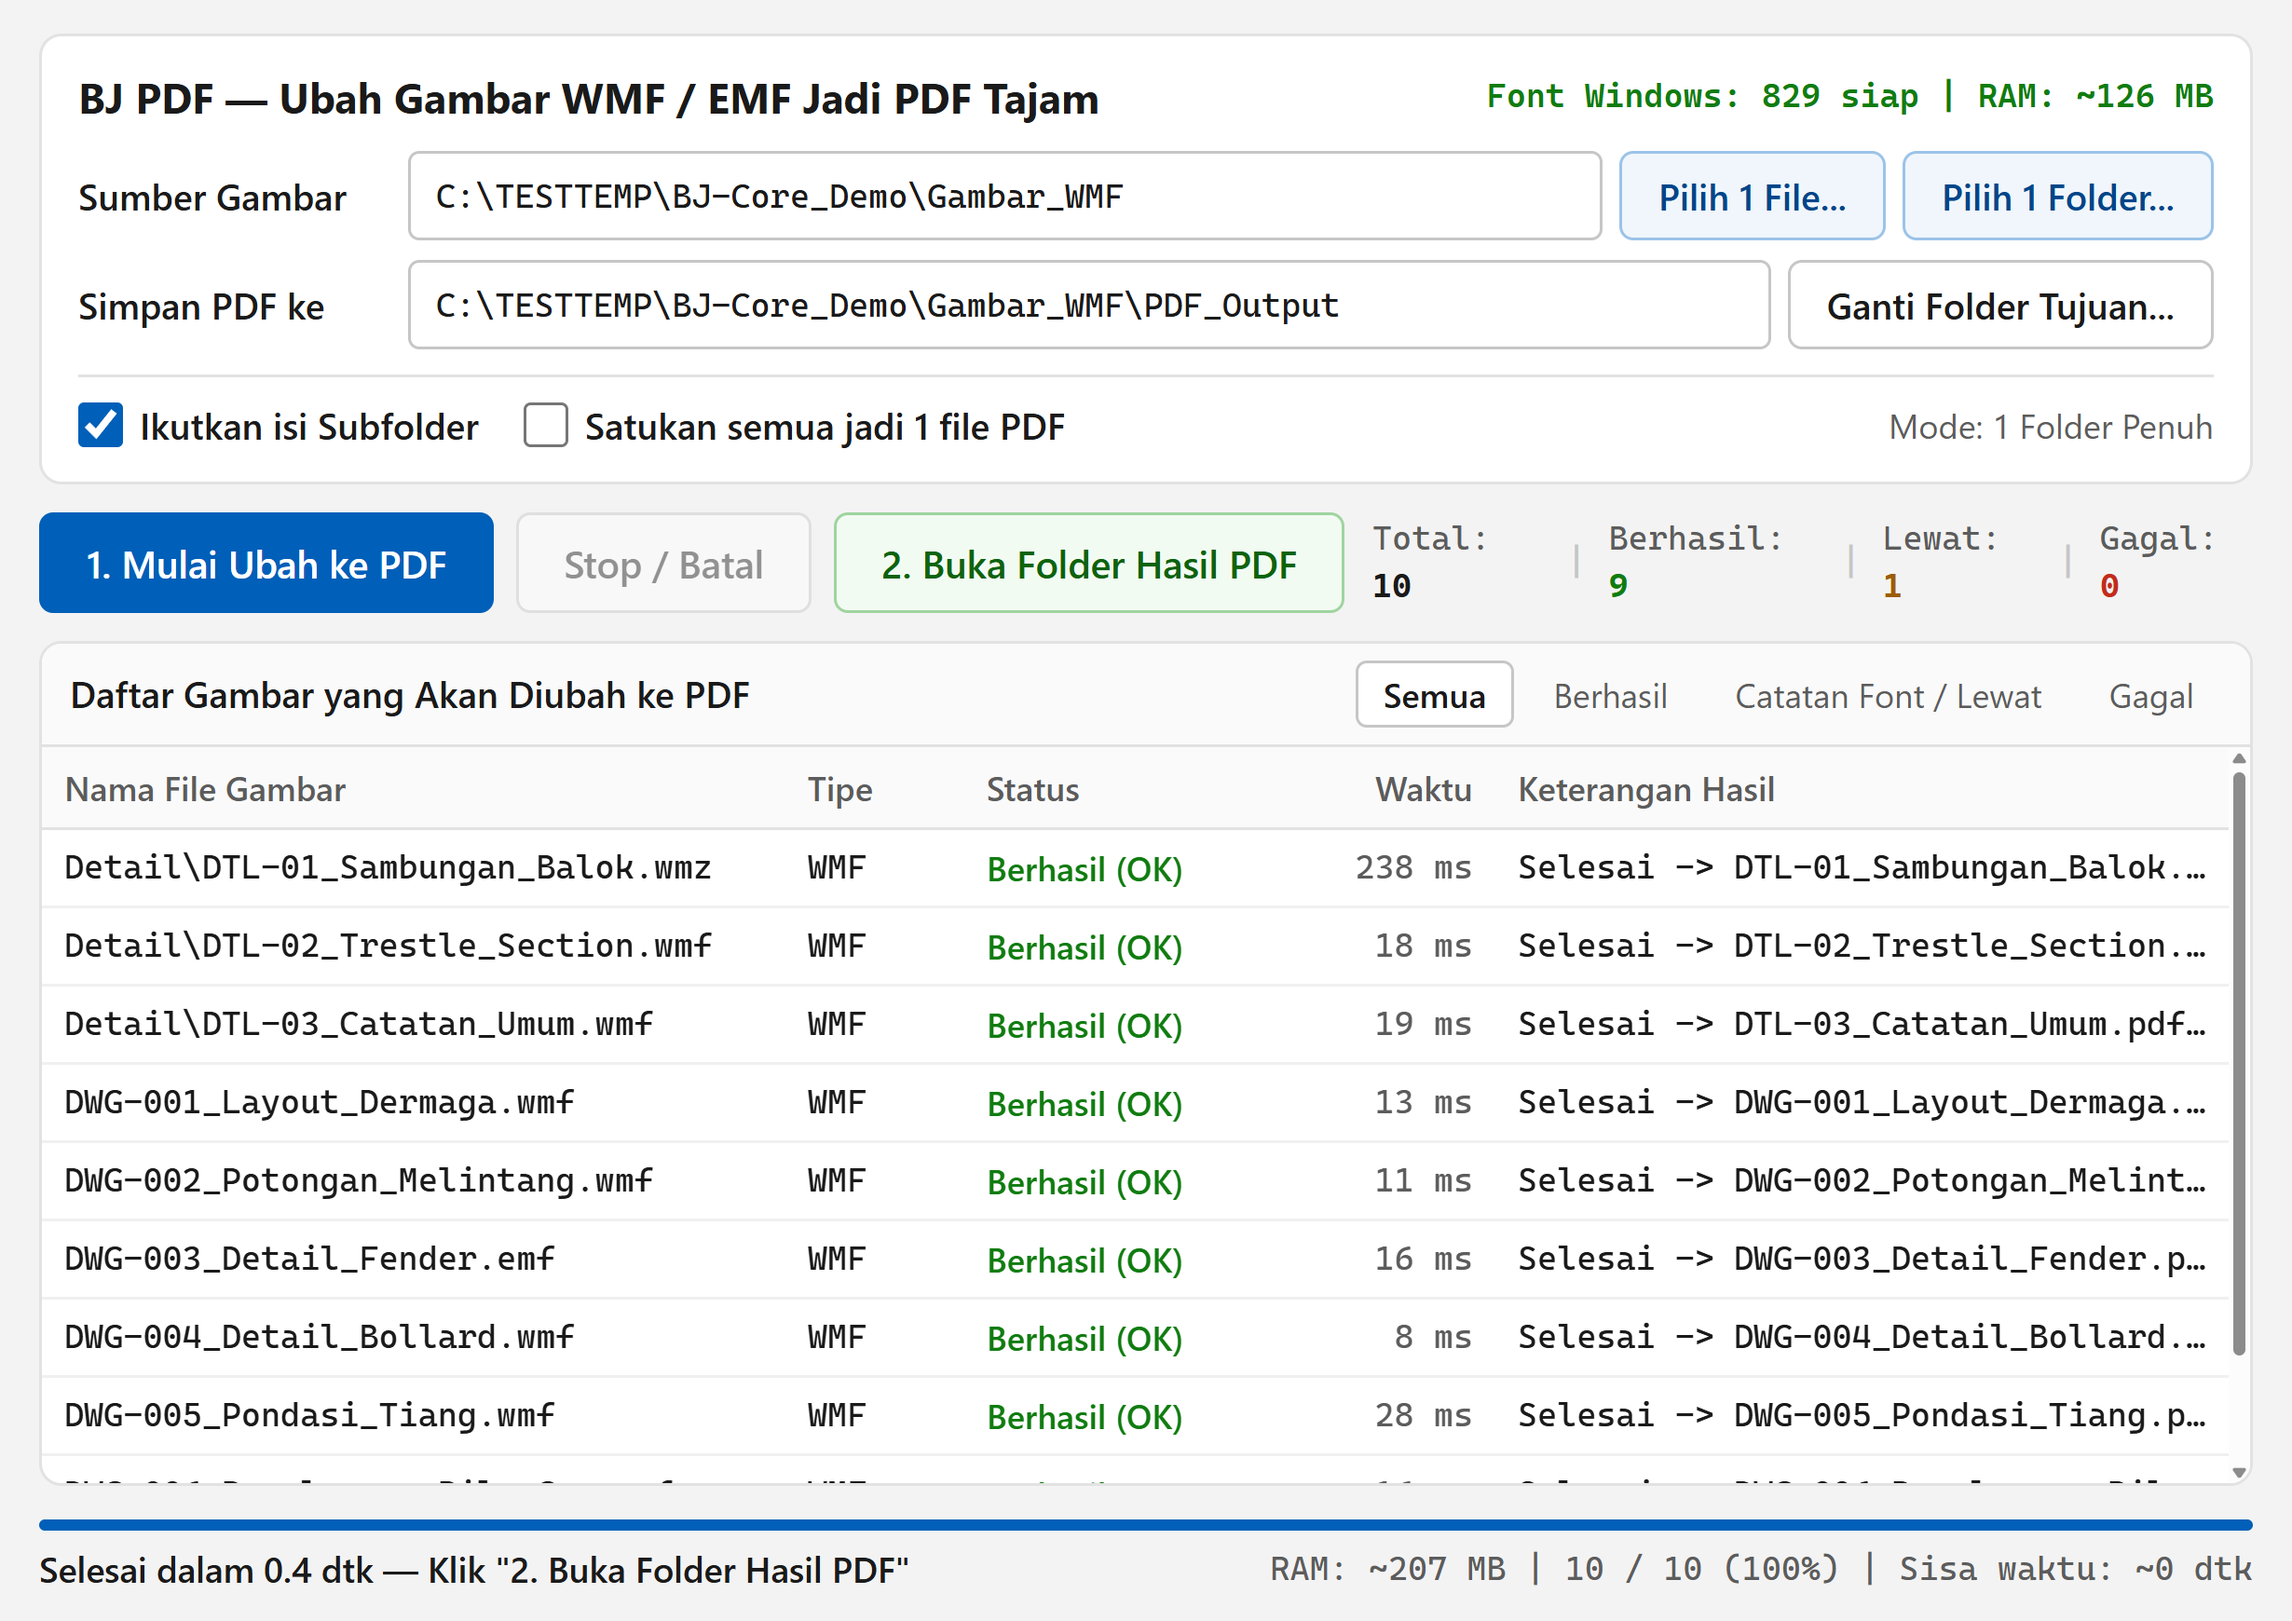
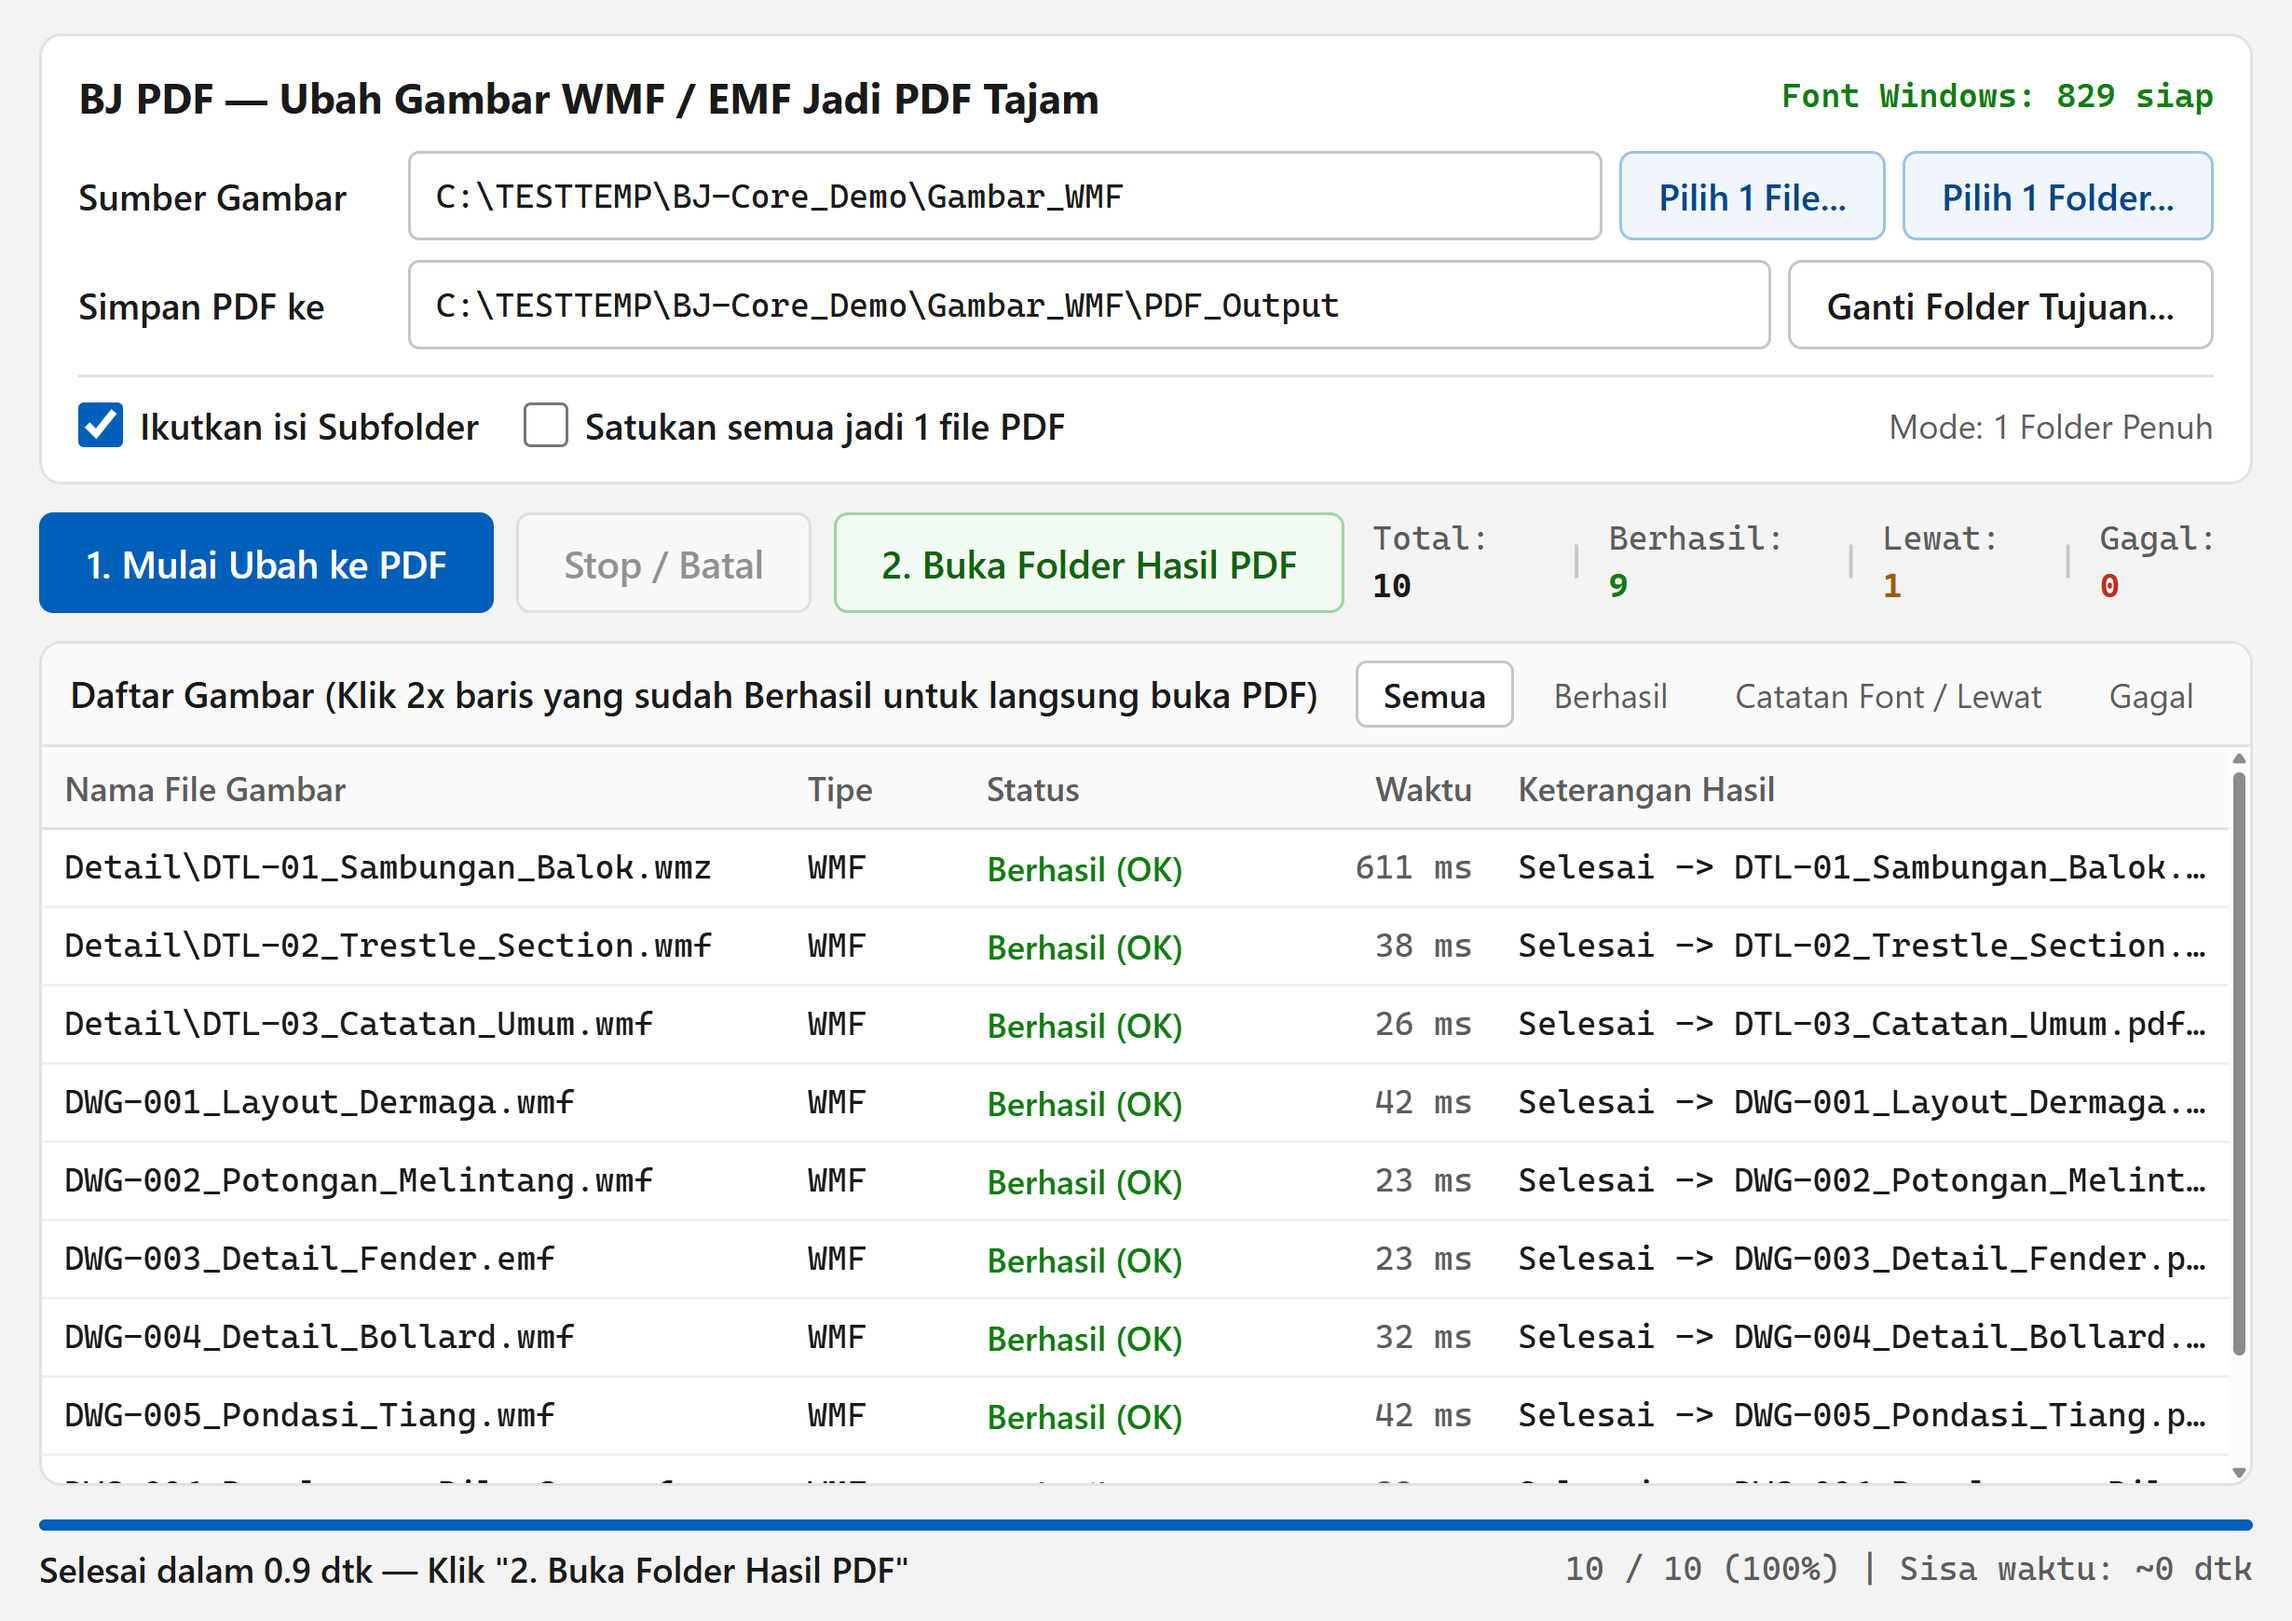
ui: remove RAM indicator text from UI while keeping full font coverage under 200 MB

diff --git a/src/renderer/renderer.ts b/src/renderer/renderer.ts
@@ -60,7 +60,6 @@ const progressMeta = document.getElementById('progressMeta') as HTMLSpanElement;
 let outputManuallyEdited = false;
 let isRunning = false;
 let lastOutputDir = '';
-let currentRamMb = 0;
 let activeFilter: 'all' | 'ok' | 'warn' | 'error' = 'all';
 
 // Selection state: either 'folder' or 'files'
@@ -213,8 +212,7 @@ function populateQueueFromEntries(entries: ScannedFileEntry[]): void {
   statSkip.textContent = '0';
   statError.textContent = '0';
   progressBar.style.width = '0%';
-  const ramLabel = currentRamMb > 0 ? `RAM: ~${currentRamMb} MB | ` : '';
-  progressMeta.textContent = `${ramLabel}0 / ${entries.length} (0%) | Sisa waktu: —`;
+  progressMeta.textContent = `0 / ${entries.length} (0%) | Sisa waktu: —`;
   phaseText.textContent =
     entries.length > 0
       ? `${entries.length} gambar siap diubah ke PDF — Klik tombol "1. Mulai Ubah ke PDF"`
@@ -271,16 +269,13 @@ function handleFileUpdate(update: FileStatusUpdate): void {
 }
 
 function updateFontStatus(status: FontCacheStatus): void {
-  if (status.ramMb > 0) {
-    currentRamMb = status.ramMb;
-  }
   fontStatusText.classList.remove('ready', 'error');
   if (status.error) {
     fontStatusText.classList.add('error');
     fontStatusText.textContent = 'Font Windows: gagal dimuat';
   } else if (status.ready) {
     fontStatusText.classList.add('ready');
-    fontStatusText.textContent = `Font Windows: ${status.fontFileCount} siap | RAM: ~${status.ramMb} MB`;
+    fontStatusText.textContent = `Font Windows: ${status.fontFileCount} siap`;
   } else {
     fontStatusText.textContent = 'Font Windows: memuat...';
   }
@@ -419,9 +414,6 @@ function updateControls(): void {
 }
 
 function updateProgress(p: BatchProgress): void {
-  if (p.ramMb > 0) {
-    currentRamMb = p.ramMb;
-  }
   const pct = p.total > 0 ? Math.round((p.current / p.total) * 100) : 0;
   progressBar.style.width = `${pct}%`;
 
@@ -430,7 +422,7 @@ function updateProgress(p: BatchProgress): void {
   statSkip.textContent = String(p.skipCount);
   statError.textContent = String(p.errorCount);
 
-  progressMeta.textContent = `RAM: ~${currentRamMb} MB | ${p.current} / ${p.total} (${pct}%) | Sisa waktu: ${formatEta(
+  progressMeta.textContent = `${p.current} / ${p.total} (${pct}%) | Sisa waktu: ${formatEta(
     p.etaMs
   )}`;
 

diff --git a/src/main/fontIndex.ts b/src/main/fontIndex.ts
@@ -301,7 +301,11 @@ export async function ensureSystemFontsLoaded(): Promise<CachedFontStore> {
 
       for (const fp of fontPaths) {
         const lowerBase = path.basename(fp).toLowerCase();
-        if (CORE_FONT_FILE_PREFIXES.some((prefix) => lowerBase.startsWith(prefix))) {
+        // Always include core Windows/CAD TrueType fonts and all lightweight .fon/.fnt raster fonts
+        if (
+          /\.(fon|fnt)$/i.test(lowerBase) ||
+          CORE_FONT_FILE_PREFIXES.some((prefix) => lowerBase.startsWith(prefix))
+        ) {
           corePaths.add(fp);
         }
 
@@ -430,9 +434,16 @@ export async function resolveFontsForConversion(
     const norm = normalizeFontName(f.name);
     const stripped = stripStyleSuffix(norm);
     for (const key of [norm, stripped]) {
+      if (!key) continue;
       const paths = store.familyToPaths.get(key);
       if (paths) {
         for (const p of paths) neededPaths.add(p);
+      }
+      // Handle 31-char GDI LOGFONT face name truncation or style variants
+      for (const [fam, famPaths] of store.familyToPaths.entries()) {
+        if (fam.startsWith(key) || (key.length >= 12 && key.startsWith(fam))) {
+          for (const p of famPaths) neededPaths.add(p);
+        }
       }
     }
     const cadCandidates = CAD_FALLBACK_CANDIDATES[norm];

diff --git a/src/renderer/index.html b/src/renderer/index.html
@@ -141,7 +141,7 @@
         </div>
         <div class="status-meta">
           <span id="phaseText" class="status-text">Siap digunakan</span>
-          <span id="progressMeta" class="status-numbers mono">RAM: — MB | 0 / 0 (0%) | Sisa waktu: —</span>
+          <span id="progressMeta" class="status-numbers mono">0 / 0 (0%) | Sisa waktu: —</span>
         </div>
       </footer>
     </div>
